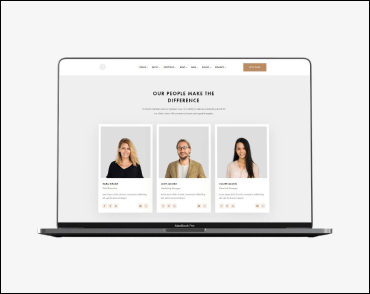
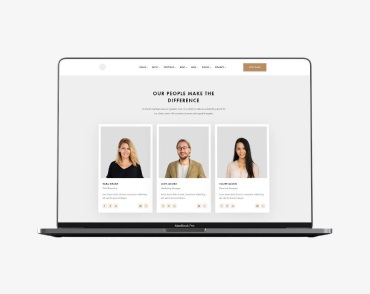
++

Changed region(s): [[0.0, 0.0, 1.0, 1.0]]

diff --git a/portfolio.html b/portfolio.html
@@ -29,36 +29,51 @@
         </div>
         </div>
     </header>
-    <main class="hero-portfolio" >
+    <main class="hero-portfolio-main" >
         <h1 class="visually-hidden">Портфолио</h1>
         <section>
-            <Ul class="hero-portfolio list">
-                <li><button class="first-btn" type="button">Все</button></li>
-                <li><button class="portfolio-btn" type="button">Веб-Сайты</button></li>
-                <li><button class="portfolio-btn" type="button">Приложения</button></li>
-                <li><button class="portfolio-btn" type="button">Дизайн</button></li>
-                <li><button class="portfolio-btn" type="button">Маркетинг</button></li>
-            </ul>
-            <ul class="hero-portfolio list">
-                <li><img src="./images/hm2/portfolio.jpg" width="370" height="294" alt="Компьютер"><h2 class="title-portgolio">Технокряк</h2><br><span class="discription-portfolio">Веб-сайт</span></li>
-                <li><img src="./images/hm2/portfolio(1).jpg" width="370" height="294" alt="Баскетболл"><h2 class="title-portgolio">Постер New Orlean vs Golden Star<br></h2><span class="discription-portfolio">Дизайн</span></li>
-                <li><img src="./images/hm2/portfolio(2).jpg" width="370" height="294" alt="Рыба"><h2 class="title-portgolio">Ресторан Seafood<br></h2><span class="discription-portfolio">Приложение</span></li>
-                <li><img src="./images/hm2/portfolio(3).jpg" width="370" height="294" alt="Наушники"><h2 class="title-portgolio">Проект Prime<br></h2><span class="discription-portfolio">Маркетинг</span></li>
-                <li><img src="./images/hm2/portfolio(4).jpg" width="370" height="294" alt="Коробка"><h2 class="title-portgolio">Проект Boxes<br></h2><span class="discription-portfolio">Приложение</span></li>
-                <li><img src="./images/hm2/portfolio(5).jpg" width="370" height="294" alt="Десктоп"><h2 class="title-portgolio">Inspiration has no Borders<br></h2><span class="discription-portfolio">Веб-сайт</span></li>
-                <li><img src="./images/hm2/portfolio(6).jpg" width="370" height="294" alt="Книга"><h2 class="title-portgolio">Издание Limited Edition<br></h2><span class="discription-portfolio">Дизайн</span></li>
-                <li><img src="./images/hm2/portfolio(7).jpg" width="370" height="294" alt="Лейбл"><h2 class="title-portgolio">Проект LAB<br></h2><span class="discription-portfolio">Маркетинг</span></li>
-                <li><img src="./images/hm2/portfolio(8).jpg" width="370" height="294" alt="Лэптоп"><h2 class="title-portgolio">Growing Business<br></h2><span class="discription-portfolio">Приложение</span></li>
-            </Ul>
+            <div class="container">
+                <Ul class="hero-portfolio-btn list">
+                    <li class="portfolio-btn-box"><button class="portfolio-btn" type="button">Все</button></li>
+                    <li class="portfolio-btn-box"><button class="portfolio-btn" type="button">Веб-Сайты</button></li>
+                    <li class="portfolio-btn-box"><button class="portfolio-btn" type="button">Приложения</button></li>
+                    <li class="portfolio-btn-box"><button class="portfolio-btn" type="button">Дизайн</button></li>
+                    <li class="portfolio-btn-box"><button class="portfolio-btn" type="button">Маркетинг</button></li>
+                </ul>
+            </div>
+            <div class="container">
+                    <ul class="card-set list">
+                        <li class="portfolio-card"><img src="./images/hm2/portfolio.jpg" width="370" height="294" alt="Компьютер"><h2 class="title-portgolio">Технокряк</h2><br><span class="discription-portfolio">Веб-сайт</span></li>
+
+                        <li class="portfolio-card"><img src="./images/hm2/portfolio(1).jpg" width="370" height="294" alt="Баскетболл"><h2 class="title-portgolio">Постер New Orlean vs Golden Star<br></h2><span class="discription-portfolio">Дизайн</span></li>
+
+                        <li class="portfolio-card"><img src="./images/hm2/portfolio(2).jpg" width="370" height="294" alt="Рыба"><h2 class="title-portgolio">Ресторан Seafood<br></h2><span class="discription-portfolio">Приложение</span></li>
+
+                        <li class="portfolio-card"><img src="./images/hm2/portfolio(3).jpg" width="370" height="294" alt="Наушники"><h2 class="title-portgolio">Проект Prime<br></h2><span class="discription-portfolio">Маркетинг</span></li>
+
+                        <li class="portfolio-card"><img src="./images/hm2/portfolio(4).jpg" width="370" height="294" alt="Коробка"><h2 class="title-portgolio">Проект Boxes<br></h2><span class="discription-portfolio">Приложение</span></li>
+
+                        <li class="portfolio-card"><img src="./images/hm2/portfolio(5).jpg" width="370" height="294" alt="Десктоп"><h2 class="title-portgolio">Inspiration has no Borders<br></h2><span class="discription-portfolio">Веб-сайт</span></li>
+
+                        <li class="portfolio-card"><img src="./images/hm2/portfolio(6).jpg" width="370" height="294" alt="Книга"><h2 class="title-portgolio">Издание Limited Edition<br></h2><span class="discription-portfolio">Дизайн</span></li>
+
+                        <li class="portfolio-card"><img src="./images/hm2/portfolio(7).jpg" width="370" height="294" alt="Лейбл"><h2 class="title-portgolio">Проект LAB<br></h2><span class="discription-portfolio">Маркетинг</span></li>
+
+                        <li class="portfolio-card"><img src="./images/hm2/portfolio(8).jpg" width="370" height="294" alt="Лэптоп"><h2 class="title-portgolio">Growing Business<br></h2><span class="discription-portfolio">Приложение</span></li>
+
+                    </Ul>
+            </div>
+        
         </section>
         
     </main>
     <footer class="footer-ground">
-        <a class="footer-logo link" href="./"><span class="web-logo">Web</span>Studio</a>
-        <address class="footer-address">г. Киев, пр-т Леси Украинки, 26</address>
-        <a class="link footer-web" href="mailto:info@devstudio.com">info@devstudio.com</a>
-        <a class="link footer-tel" href="tel+380961111111">+38 096 111 11 11</a>
-    
+        <div class="container">
+            <a class="footer-logo link" href="./"><span class="web-logo">Web</span>Studio</a>
+            <address class="footer-address">г. Киев, пр-т Леси Украинки, 26</address>
+            <a class="link footer-web" href="mailto:info@devstudio.com">info@devstudio.com</a>
+            <a class="link footer-tel" href="tel+380961111111">+38 096 111 11 11</a>
+        </div>
     </footer>
 </body>
 </html>

diff --git a/index.html b/index.html
@@ -49,47 +49,52 @@
                 <ul class="list">
                     <li class="box-description" >
                         <h3 class="description-plus">Внимание к деталям</h3>
-                        <p class="description-p" >Идейные соображения, а также начало повседневной работы по формированию позиции.</p>
+                        <p class="plus-description" >Идейные соображения, а также начало повседневной работы по формированию позиции.</p>
                     </li>
                     <li class="box-description" >
                         <h3 class="description-plus">Пунктуальность</h3>
-                        <p class="description-p" >Задача организации, в особенности же рамки и место обучения кадров влечет за собой.</p>
+                        <p class="plus-description" >Задача организации, в особенности же рамки и место обучения кадров влечет за собой.</p>
                     </li>
                     <li class="box-description" >
                         <h3 class="description-plus">Планирование</h3>
-                        <p class="description-p" >Равным образом консультация с широким активом в значительной степени обуславливает.</p>
+                        <p class="plus-description" >Равным образом консультация с широким активом в значительной степени обуславливает.</p>
                     </li>
                     <li class="box-description" >
                         <h3 class="description-plus">Современные технологии</h3>
-                        <p class="description-p" >Значимость этих проблем настолько очевидна, что реализация плановых заданий.</p>
+                        <p class="plus-description" >Значимость этих проблем настолько очевидна, что реализация плановых заданий.</p>
                     </li>
             </ul>
         </div>
         </section>
         <section class="section-doing">
-        <h2 class="second-hero-title">Чем мы занимаемся</h2>
-                <ul class="list">
-                    <li><img src="./images/box1.jpg" width="370" height="294" alt="человек гуглит"></li>
-                    <li><img src="./images/box2.jpg" width="370" height="294" alt="человек гуглит через айпад"></li>
-                    <li><img src="./images/box3.jpg" width="370" height="294" alt="человек печатает"></li>
-                </ul>
+            <div class="container">
+                <h2 class="second-hero-title">Чем мы занимаемся</h2>
+                    <ul class="img-first-pg list">
+                        <li class="first-pg-item"><img src="./images/box1.jpg" width="370" height="294" alt="человек гуглит"></li>
+                        <li class="first-pg-item"><img src="./images/box2.jpg" width="370" height="294" alt="человек гуглит через айпад"></li>
+                        <li class="first-pg-item"><img src="./images/box3.jpg" width="370" height="294" alt="человек печатает"></li>
+                    </ul>
+            </div>
         </section>
         <section class="section-team" >
-        <h2 class="second-hero-title">Наша Команда</h2>
-            <ul class="list">
-                <li><img src="./images/Team member(1).jpg" width="270" height="260" alt="в очках"><h3 class="description-team">Игорь Демьяненко</h3><br><p class="description-p">Product Designer</p></li>
-                <li><img src="./images/Team member(2).jpg" width="270" height="260" alt="блондинка"><h3 class="description-team">Ольга Репина</h3><br><p class="description-p">Frontend Developer</p></li>
-                <li><img src="./images/Team member(3).jpg" width="270" height="260" alt="фото парень"><h3 class="description-team">Николай Тарасов</h3><br><p class="description-p">Marketing</p></li>
-                <li><img src="./images/Team member(4).jpg" width="270" height="260" alt="загадочная улыбка"><h3 class="description-team">Михаил Ермаков</h3><br><p class="description-p">UI Designer</p></li>
-            </ul>
+            <div class="container">
+             <h2 class="second-hero-title">Наша Команда</h2>
+                 <ul class="team-pic list">
+                    <li class="team-member"><img src="./images/Team member(1).jpg" width="270" height="260" alt="в очках"><h3 class="description-team">Игорь Демьяненко</h3><br><p class="description-p">Product Designer</p></li>
+                    <li class="team-member"><img src="./images/Team member(2).jpg" width="270" height="260" alt="блондинка"><h3 class="description-team">Ольга Репина</h3><br><p class="description-p">Frontend Developer</p></li>
+                    <li class="team-member"><img src="./images/Team member(3).jpg" width="270" height="260" alt="фото парень"><h3 class="description-team">Николай Тарасов</h3><br><p class="description-p">Marketing</p></li>
+                    <li class="team-member"><img src="./images/Team member(4).jpg" width="270" height="260" alt="загадочная улыбка"><h3 class="description-team">Михаил Ермаков</h3><br><p class="description-p">UI Designer</p></li>
+                </ul>
+            </div>
          </section>
         </main>
     <footer class="footer-ground">
-        <a class="footer-logo link" href="./"><span class="web-logo">Web</span>Studio</a>
-        <address class="footer-address">г. Киев, пр-т Леси Украинки, 26</address>
-        <a class="link footer-web" href="mailto:info@devstudio.com">info@devstudio.com</a>
-        <a class="link footer-tel" href="tel+380961111111">+38 096 111 11 11</a>
-    
+        <div class="container">
+            <a class="footer-logo link" href="./"><span class="web-logo">Web</span>Studio</a>
+            <address class="footer-address">г. Киев, пр-т Леси Украинки, 26</address>
+            <a class="link footer-web" href="mailto:info@devstudio.com">info@devstudio.com</a>
+            <a class="link footer-tel" href="tel+380961111111">+38 096 111 11 11</a>
+        </div>
     </footer>
 </body>
 </html>

diff --git a/css/styles.css b/css/styles.css
@@ -153,7 +153,7 @@ img {
   min-width: 160px;
   min-height: 40px;
   margin-top: 30px;
-  margin-left: 545px;
+  margin-left: 510px;
   color: var(--main-btn-color);
   background-color: var(--btn-background-color);
 }
@@ -172,7 +172,7 @@ img {
   text-align: center;
   letter-spacing: 0.06em;
   text-transform: uppercase;
-  padding-top: 165px;
+  padding-top: 100px;
   padding-right: auto;
   color: var(--main-title-color);
 }
@@ -194,7 +194,19 @@ img {
   font-size: 16px;
   line-height: 1.18;
   letter-spacing: 0.03em;
+  text-align: center;
 }
+.plus-description {
+  font-style: normal;
+  font-weight: normal;
+  font-size: 16px;
+  line-height: 1.19;
+  letter-spacing: 0.03em;
+  color: var(--third-title-color);
+  text-align: left;
+  margin-top: 10px;
+}
+
 .description-p {
   font-style: normal;
   font-weight: normal;
@@ -202,9 +214,11 @@ img {
   line-height: 1.19;
   letter-spacing: 0.03em;
   color: var(--third-title-color);
+  text-align: center;
 }
 .section-team {
   background-color: #f5f4fa;
+  height: 650px;
 }
 .second-hero-title {
   font-weight: 700;
@@ -213,6 +227,7 @@ img {
   text-align: center;
   letter-spacing: 0.03em;
   color: var(--second-title-color);
+  padding-top: 50px;
 }
 .description-prons {
   padding-top: 60px;
@@ -221,7 +236,29 @@ img {
 .box-description {
   width: 270px;
   height: 100px;
+  display: inline-block;
 }
+.box-description:not(:last-child) {
+  margin-right: 25px;
+}
+.img-first-pg {
+  display: flex;
+  margin-top: 50px;
+}
+.first-pg-item:not(:last-child) {
+  margin-right: 30px;
+}
+.second-hero-title {
+  margin-top: 50px;
+}
+.team-pic {
+  display: flex;
+  padding-top: 50px;
+}
+.team-member:not(:last-child) {
+  margin-right: 30px;
+}
+
 /*-------------------------------Footer---------------------------------*/
 .footer-logo {
   font-family: Raleway;
@@ -267,25 +304,31 @@ img {
 .footer-tel:hover {
   color: var(--accent-color);
 }
-/*-------------------------------ПОРТФОЛИО мейн---------------------------------*/
-.first-btn {
-  cursor: pointer;
-  background-color: var(--main-btn-color);
-  font-family: Roboto;
-  font-size: 16px;
-  line-height: 1.62;
-  text-align: center;
-  letter-spacing: 0.03em;
-  min-width: 160px;
-  min-height: 40px;
-  color: var(--main-title-color);
-  background-color: var(--btn-background-color);
-}
-.first-btn:active {
-  cursor: pointer;
-  color: var(--footer-nolight-color);
-}
 
+/*-------------------------------ПОРТФОЛИО мейн---------------------------------*/
+.visually-hidden {
+  visibility: hidden;
+}
+.hero-portfolio-btn {
+  display: flex;
+  justify-content: center;
+  margin-bottom: 50px;
+}
+.portfolio-btn-box:not(:last-child) {
+  margin-right: 10px;
+}
+.card-set {
+  display: flex;
+  flex-wrap: wrap;
+  margin-top: -10px;
+  margin-left: -10px;
+  margin-bottom: 90px;
+}
+.card-set > .portfolio-card {
+  flex-basis: calc(100% / 3-10px);
+  margin-top: 10px;
+  margin-left: 10px;
+}
 .portfolio-btn {
   cursor: pointer;
   background-color: var(--backgroud-color);
@@ -295,8 +338,6 @@ img {
   line-height: 1.62;
   text-align: center;
   letter-spacing: 0.03em;
-  min-width: 160px;
-  min-height: 40px;
   color: var(--footer-nolight-color);
 }
 .portfolio-btn:active {
